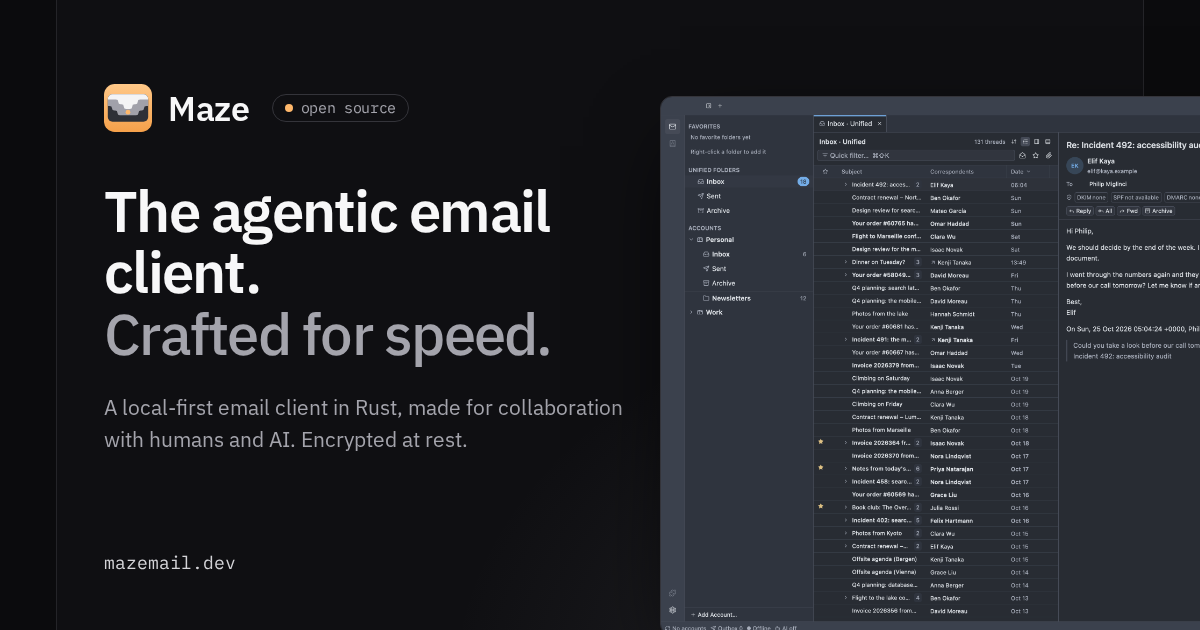
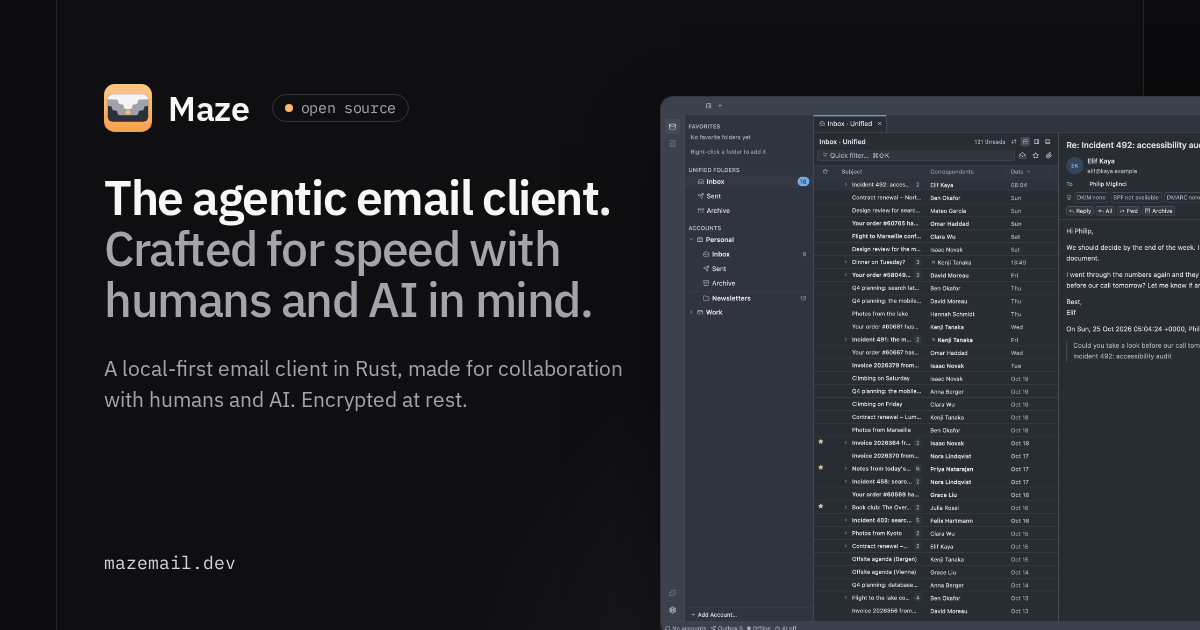
docs: new subtitle in the README and on the social card
"Crafted for speed with humans and AI in mind." as on the website. The
card's heading is 48 px (was 58) so the longer line keeps clear of the URL.

Changed region(s): [[0.0617, 0.2714, 0.5242, 0.6635], [0.0925, 0.6937, 0.4008, 0.7238]]

diff --git a/website/scripts/og.html b/website/scripts/og.html
@@ -82,8 +82,8 @@
         background: #ffb86b;
       }
       h1 {
-        margin: 48px 0 0;
-        font-size: 58px;
+        margin: 40px 0 0;
+        font-size: 48px;
         line-height: 1.06;
         letter-spacing: -0.03em;
         font-weight: 600;
@@ -144,7 +144,7 @@
         Maze
         <span class="badge">open source</span>
       </div>
-      <h1>The agentic email client.<span>Crafted for speed.</span></h1>
+      <h1>The agentic email client.<span>Crafted for speed with humans and AI in mind.</span></h1>
       <p>A local-first email client in Rust, made for collaboration with humans and AI. Encrypted at rest.</p>
     </div>
     <div class="url">mazemail.dev</div>

diff --git a/README.md b/README.md
@@ -1,6 +1,6 @@
 # Maze
 
-**The agentic email client.** Crafted for speed and collaboration with humans and AI.
+**The agentic email client.** Crafted for speed with humans and AI in mind.
 
 An open source, local-first email client written in Rust. Built like
 [Zed](https://zed.dev) (GPU-rendered, fast, small, agent-native) and behaving like
